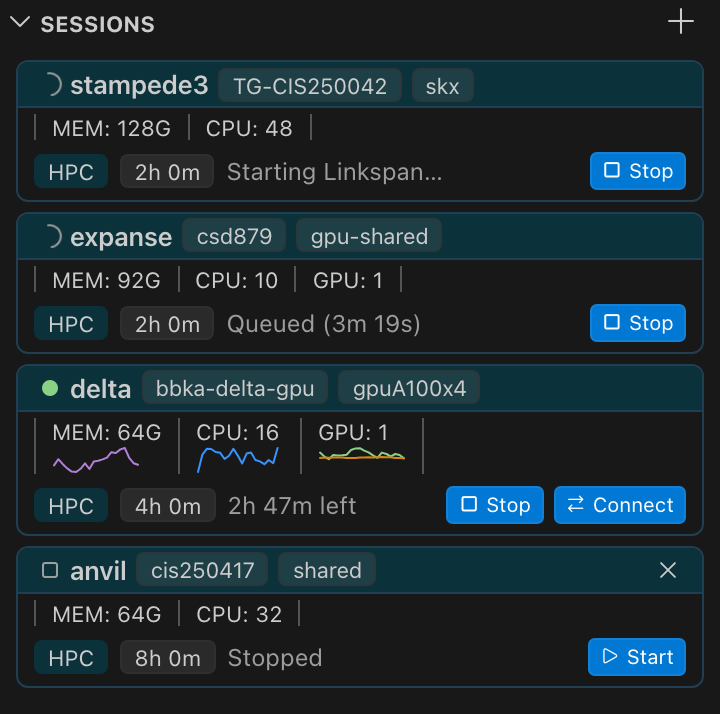
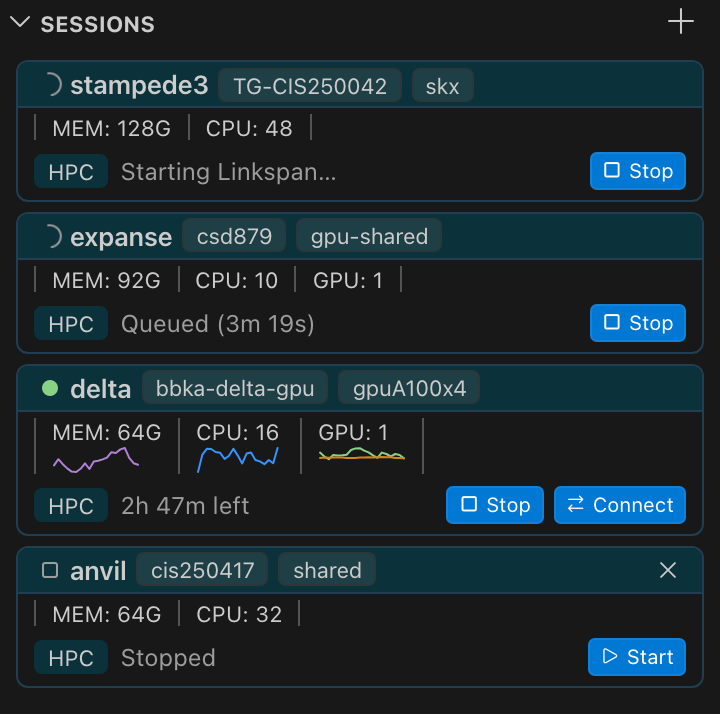
Ask for the walltime on Start (#244)

diff --git a/src/sessionProvider.ts b/src/sessionProvider.ts
@@ -27,6 +27,7 @@ export class SessionProvider extends WebviewProvider<SessionsMessage> implements
     private preparing = false; // one prepare at a time, so one draft follows another
     private readonly shared: vscode.Disposable[] = [];
     private readonly opening = new Map<string, ReturnType<typeof setTimeout>>(); // each open's own fallback timer
+    private readonly starting = new Set<string>();
     private readonly monitor: SessionMonitor;
     private readonly slurm: SlurmBackend;
     private readonly ec2: Ec2Backend;
@@ -95,7 +96,11 @@ export class SessionProvider extends WebviewProvider<SessionsMessage> implements
         dismissAlert: this.dismiss(() => { this.alert = null; }),
         addSession: m => this.createSession(m),
         refreshSlurmDiscovery: ({ alias }) => this.fetchSlurmDiscovery(alias, true),
-        prepareLaunchSession: ({ sessionId }) => void this.prepareLaunchSession(sessionId),
+        prepareLaunchSession: ({ sessionId }) => {
+            this.starting.add(sessionId);
+            void this.pushState();
+            void this.prepareLaunchSession(sessionId).finally(() => { this.starting.delete(sessionId); void this.pushState(); });
+        },
         launchSession: () => this.launchDraft(),
         stopSessionExecution: ({ sessionId }) => void this.stopSessionExecution(sessionId),
         stopRemoteSession: () => void vscode.commands.executeCommand('csbridge.stopRemoteSession'), // posted only by a remote window's card
@@ -212,7 +217,7 @@ export class SessionProvider extends WebviewProvider<SessionsMessage> implements
                     .map((s) => {
                         const live = windowState(s);
                         if (live.windowAlive) { clearTimeout(this.opening.get(s.id)); this.opening.delete(s.id); }
-                        return { ...s, status: statusOf(s), ...live, opening: this.opening.has(s.id), samples: readRecentSamples(s.id) };
+                        return { ...s, status: statusOf(s), ...live, opening: this.opening.has(s.id), starting: this.starting.has(s.id), samples: readRecentSamples(s.id) };
                     })
                     .sort((a, b) => b.id.localeCompare(a.id)), // newest first
                 draftAlias: this.draftAlias,
@@ -320,7 +325,8 @@ export class SessionProvider extends WebviewProvider<SessionsMessage> implements
 
     private async prepareLaunchSession(sessionId: string) {
         const session = this.requireSession(sessionId, 'prepare launch');
-        if (!session || this.preparing || live.busy.has(session.id) || live.connecting.has(session.id)) { return; } // one prepare at a time; a Start during a connect is a no-op
+        const wallMinutes = session && !isEc2(session) ? await pickWalltime(session.resources.wallMinutes) : 0;
+        if (!session || wallMinutes === undefined || this.preparing || live.busy.has(session.id) || live.connecting.has(session.id)) { return; } // one prepare at a time; a Start during a connect is a no-op
         this.preparing = true;
         live.busy.add(session.id);
         try {
@@ -335,7 +341,7 @@ export class SessionProvider extends WebviewProvider<SessionsMessage> implements
         live.busy.add(session.id);
         try {
             if (session.connectionInfo) { await this.monitor.endSession(session); } // the previous run's teardown, before a transport switch hides it
-            patch(session, { transport: configuredTransport() });
+            patch(session, { transport: configuredTransport(), resources: { ...session.resources, wallMinutes } });
             const draft = await prepareLaunch(session, this.transports.transportFor(session));
             this.draft = { sessionId, ...draft };
         }
@@ -354,4 +360,16 @@ export class SessionProvider extends WebviewProvider<SessionsMessage> implements
         const session = draft && getSession(draft.sessionId);
         return draft && session ? { sessionId: session.id, alias: session.alias, script: draft.script } : null;
     }
+}
+
+function pickWalltime(previous: number): Promise<number | undefined> {
+    const pick = vscode.window.createQuickPick<vscode.QuickPickItem & { minutes: number }>();
+    pick.title = 'Walltime';
+    pick.items = [30, 60, 120, 240, 480, 720, 1440].map(m => ({ label: m < 60 ? `${m} min` : `${m / 60} h`, minutes: m }));
+    pick.activeItems = pick.items.filter(i => i.minutes === previous);
+    return new Promise((resolve) => {
+        pick.onDidAccept(() => { resolve(pick.selectedItems[0]?.minutes); pick.dispose(); });
+        pick.onDidHide(() => { resolve(undefined); pick.dispose(); });
+        pick.show();
+    });
 }

diff --git a/src/ui/logic/session.test.ts b/src/ui/logic/session.test.ts
@@ -70,15 +70,17 @@ test('connected session: Current when this window, else Switch/Connect by window
     assert.deepEqual([connectingBtn?.kind, connectingBtn?.label], ['opening', 'Connecting…']);
 });
 
-test('cardModel: an HPC job and an EC2 instance differ only in chips, details, walltime and the running text', () => {
+test('cardModel: an HPC job and an EC2 instance differ only in chips, details and the running text', () => {
     const base = { alias: 'h', account: 'acct', partition: 'gpu', jobId: '42', errorMessage: '', submittedAt: 1_000, startedAt: 1_000, resources: { cores: 2, memoryMb: 4096, wallMinutes: 60 } };
     const hpc = cardModel(sess('connected', base), 601_000);
-    assert.deepEqual([hpc.kind, hpc.theme, hpc.chips, hpc.walltime, hpc.details, hpc.status.text], ['HPC', 'info', ['acct', 'gpu'], '1h 0m', undefined, '50m 0s left']);
+    assert.deepEqual([hpc.kind, hpc.theme, hpc.chips, hpc.details, hpc.status.text], ['HPC', 'info', ['acct', 'gpu'], undefined, '50m 0s left']);
     const ec2 = { region: 'us-east-1', type: 't3.micro', image: '', user: 'ubuntu', ip: '1.2.3.4' };
     const aws = cardModel(sess('connected', { ...base, ec2 }), 601_000);
-    assert.deepEqual([aws.kind, aws.theme, aws.chips, aws.walltime, aws.details, aws.status.text], ['AWS', 'warning', ['t3.micro', 'Ubuntu 24.04 LTS'], undefined, ['us-east-1', '42', '1.2.3.4'], 'Running']);
+    assert.deepEqual([aws.kind, aws.theme, aws.chips, aws.details, aws.status.text], ['AWS', 'warning', ['t3.micro', 'Ubuntu 24.04 LTS'], ['us-east-1', '42', '1.2.3.4'], 'Running']);
     assert.equal(cardModel(sess('preparing', base), 0).status.text, 'Starting Linkspan…');
     assert.equal(cardModel(sess('preparing', { ...base, ec2 }), 0).status.text, 'Booting…');
+    const starting = cardModel(sess('stopped', { ...base, starting: true }), 0);
+    assert.deepEqual([starting.actions[0]?.label, starting.canDelete], ['Starting…', false]);
 });
 
 test('cardModel: status text carries the error where there is one, with a hover title', () => {

diff --git a/src/ui/components/HostForm.tsx b/src/ui/components/HostForm.tsx
@@ -11,8 +11,6 @@ interface Props {
     validating: boolean;
 }
 
-const WALL_MINUTES: NonEmpty<number> = [30, 60, 120, 240, 480, 720, 1440];
-const wallLabel = (m: number) => (m < 60 ? `${m} min` : m === 60 ? '1 hour' : `${m / 60} hours`);
 const partitionLabel = (p: SlurmPartitionInfo) => `${p.name} (${p.cpuCount} CPUs${p.gres[0] ? `, ${p.gres[0].count} GPUs` : ''})`;
 
 // Options are keyed by `id` because the state the form derives from is re-sent on every render.
@@ -36,7 +34,6 @@ function HostFormFields({ alias, info, validating }: { alias: string; info: Slur
     const [memPick, setMem] = useState<number>();
     const [gpuCountPick, setGpuCount] = useState<number>();
     const [gpuTypePick, setGpuType] = useState<string>();
-    const [wall, setWall] = useState(WALL_MINUTES[0]);
 
     const partition = resolvePick(partName, info.partitions, p => p.name);
     const tab = tabOf(partition);
@@ -47,7 +44,7 @@ function HostFormFields({ alias, info, validating }: { alias: string; info: Slur
 
     const submit = () => post({
         command: 'addSession', alias, partition: partition.name, account, rootFolder: info.homeDir,
-        resources: { cores: cpu, memoryMb: memGb * 1024, wallMinutes: wall, ...gpu && { gpuType: gpuTypeOf(gpu.type), gpuCount } },
+        resources: { cores: cpu, memoryMb: memGb * 1024, wallMinutes: 0, ...gpu && { gpuType: gpuTypeOf(gpu.type), gpuCount } },
     });
 
     return (
@@ -69,7 +66,6 @@ function HostFormFields({ alias, info, validating }: { alias: string; info: Slur
                     <Choice label="GPU Type" value={gpu.type} options={gpu.types} onChange={setGpuType} />
                 </>
             )}
-            <Choice label="Walltime" value={wall} options={WALL_MINUTES} onChange={setWall} show={wallLabel} />
             <Button onClick={submit} disabled={validating}>
                 {validating ? <Row gap={4}><Spinner size={12} /> Validating…</Row> : 'Add'}
             </Button>

diff --git a/src/ui/logic/session.ts b/src/ui/logic/session.ts
@@ -54,7 +54,7 @@ export function dotColor(status: ViewSession['status']): string {
 
 export function sessionActions(session: ViewSession): SessionAction[] {
     const s = session.status;
-    if (isDeletable(s)) { return [{ kind: 'start', label: 'Start', icon: 'play' }]; }
+    if (isDeletable(s)) { return [session.starting ? { kind: 'opening', label: 'Starting…', icon: 'loading' } : { kind: 'start', label: 'Start', icon: 'play' }]; }
 
     const actions: SessionAction[] = [];
     if (isStoppable(s)) { actions.push(STOP); }
@@ -120,7 +120,6 @@ interface CardModel {
     icon: { name: string; spin?: boolean };
     color: string;
     chips: string[];
-    walltime?: string;
     details?: string[];
     status: { text: string; title?: string };
     actions: SessionAction[];
@@ -150,7 +149,7 @@ function card<S extends ViewSession>(s: S, provider: Provider<S>, now: number, r
     const actions = sessionActions(s);
     return {
         kind: provider.kind, theme: provider.theme, icon: STATUS_ICON[s.status], color: dotColor(s.status), chips: provider.chips(s),
-        ...provider.kind === 'HPC' && { walltime: fmtTime(wallMs(s)) }, details: provider.details?.(s), status: statusText(s, now, provider),
-        actions: remote ? actions.filter(a => a.kind === 'stop') : actions, canDelete: !remote && isDeletable(s.status),
+        details: provider.details?.(s), status: statusText(s, now, provider),
+        actions: remote ? actions.filter(a => a.kind === 'stop') : actions, canDelete: !remote && !s.starting && isDeletable(s.status),
     };
 }

diff --git a/scripts/vscodeMock.js b/scripts/vscodeMock.js
@@ -26,6 +26,7 @@ mock.module('vscode', () => ({
     window: {
         createOutputChannel: () => ({ info: noop, warn: noop, error: noop, trace: noop, dispose: noop }),
         showErrorMessage: async () => undefined, showWarningMessage: async () => undefined, showInformationMessage: async () => undefined,
+        createQuickPick: () => { const pick = { activeItems: [], onDidHide: noop, dispose: noop, onDidAccept: f => { pick.show = () => { pick.selectedItems = pick.activeItems; f(); }; } }; return pick; },
         createWebviewPanel: () => {
             const received = new EventEmitter(), disposed = new EventEmitter();
             const panel = { webview: { html: '', cspSource: 'vscode-webview:', asWebviewUri: u => u, posted: [], postMessage: async m => { panel.webview.posted.push(m); return true; }, onDidReceiveMessage: received.event }, onDidDispose: disposed.event, dispose: () => disposed.fire(), receive: m => received.fire(m) };

diff --git a/src/ui/components/SessionCard.tsx b/src/ui/components/SessionCard.tsx
@@ -91,8 +91,7 @@ export function SessionCard({ session, remote }: Props) {
                 {m.details ? <Divided items={m.details.map(t => <Text key={t} size={11}>{t}</Text>)} /> : <ResourceStats session={session} />}
                 <Row gap={6}>
                     <Chip label={m.kind} background={tint} />
-                    {m.walltime ? <Chip label={m.walltime} /> : null}
-                    <Row style={statusStyle}><Text title={m.status.title}>{m.status.text}</Text></Row>
+                    <Row style={statusStyle}><Text ellipsis title={m.status.title ?? m.status.text}>{m.status.text}</Text></Row>
                     {m.actions.length ? (
                         <Row gap={6} style={{ marginLeft: 'auto', flexShrink: 0, zoom: 0.85 }}>
                             {m.actions.map(a => a.kind === 'opening'

diff --git a/src/modules/slurmParse.test.ts b/src/modules/slurmParse.test.ts
@@ -68,6 +68,7 @@ test('buildSlurmScript emits the resource #SBATCH directives and the Linkspan in
     assert.match(script, /^#SBATCH --cpus-per-task=4$/m);
     assert.match(script, /^#SBATCH --mem=8192M$/m);
     assert.match(script, /^#SBATCH --time=1-01:00:00$/m);
+    assert.doesNotMatch(buildSlurmScript({ ...session, resources: { ...session.resources, wallMinutes: 0 } }, devTunnelLaunch({ id: 'tid', cluster: 'use' }, 'tok'), 25000), /--time/, 'no walltime, no --time');
     assert.match(script, /^#SBATCH --partition=gpu$/m);
     assert.match(script, /^#SBATCH --account=acct1$/m);
     assert.match(script, /^#SBATCH --gres=gpu:a100:2$/m);

diff --git a/src/modules/slurmParse.ts b/src/modules/slurmParse.ts
@@ -50,7 +50,7 @@ export function buildSlurmScript(session: SlurmSession, launch: LinkspanLaunch, 
         `#SBATCH --ntasks=1`,
         `#SBATCH --cpus-per-task=${cores}`,
         `#SBATCH --mem=${memoryMb}M`,
-        `#SBATCH --time=${minutesToWalltime(wallMinutes)}`,
+        ...(wallMinutes ? [`#SBATCH --time=${minutesToWalltime(wallMinutes)}`] : []),
         `#SBATCH --partition=${session.partition}`,
         ...(session.account ? [`#SBATCH --account=${session.account}`] : []),
         ...(gpuCount ? [`#SBATCH --gres=gpu:${gpuType && gpuType !== 'gpu' ? `${gpuType}:` : ''}${gpuCount}`] : []),

diff --git a/src/lifecycle.test.ts b/src/lifecycle.test.ts
@@ -194,6 +194,7 @@ test('a relaunch preview outlives a heartbeat, and dropping it releases the atta
     assert.deepEqual(released, [s.id], 'the old run is torn down before the next is prepared');
     assert.equal(s.connectionInfo, undefined);
     assert.equal(state()?.preview?.sessionId, s.id, 'the preview is up');
+    assert.match(must(state()?.preview).script, /^#SBATCH --time=00:30:00$/m, 'the last walltime is preselected');
     assert.equal(owns(s), true, 'the preview holds the claim');
 
     await files.write('windows/other.json', JSON.stringify({ at: Date.now() }));

diff --git a/src/models.ts b/src/models.ts
@@ -108,7 +108,7 @@ export enum SlurmJobStatus {
     UNKNOWN = 'unknown',
 }
 
-export type ViewSession = SlurmSession & { status: SessionStatus; samples: UsageSample[]; isCurrent?: boolean; windowAlive?: boolean; opening?: boolean };
+export type ViewSession = SlurmSession & { status: SessionStatus; samples: UsageSample[]; isCurrent?: boolean; windowAlive?: boolean; opening?: boolean; starting?: boolean };
 
 export const SAMPLE_HISTORY_LEN = 20; // rolling live-sample window, also the sparkline slot count
 export const POLLING_INTERVAL_MS = 5000;

diff --git a/docs/01-session-lifecycle.md b/docs/01-session-lifecycle.md
@@ -52,17 +52,21 @@ offers:
 | CPUs | 2 up to the partition's count |
 | Memory | 4, 8, 16, … 1024 GB, up to the partition's. The range is 4 to 128 GB when the partition reports none. 2 GB is excluded. It OOM-kills the VS Code server. |
 | GPU type and count | from the partition's GRES |
-| Walltime | 30 min, 1, 2, 4, 8, 12 or 24 h |
+
+The form has no walltime, so validation sends no `--time`.
 
 ## Start
+
+For a Slurm session, **Start** first asks for a walltime, from 30 min to 24 h. The last one is preselected. Escape
+cancels. The card shows busy until the preview opens.
 
 1. **Claim and clean up.** **Start** (`sessionProvider.ts`):
    - ends any monitoring loop with its teardown, or waits for a teardown already in flight;
    - drops an unsubmitted preview;
    - claims the session. It stops if another window owns it.
 
-   If the previous run left connection info, that run's teardown runs now. The configured transport is then written
-   to the record. This way a run keeps the transport it started with.
+   If the previous run left connection info, that run's teardown runs now. The configured transport and the walltime
+   are then written to the record. This way a run keeps the transport it started with.
 
    Start does nothing while:
    - another Start in this window is preparing;
@@ -131,7 +135,7 @@ offers:
 
 `buildSlurmScript` writes:
 
-- `#SBATCH` lines for job name, nodes, tasks, CPUs, memory, time and partition, plus account and `--gres` when set;
+- `#SBATCH` lines for job name, nodes, tasks, CPUs, memory and partition, plus time, account and `--gres` when set;
 - output and error logs at `~/.cybershuttle/logs/linkspan-session-$SLURM_JOB_ID.{out,err}`;
 - `unset XDG_RUNTIME_DIR TMPDIR`. Compute nodes have no logind. Without it, the inherited `/run/user/$UID` does not
   exist there. Unsetting both makes the VS Code server use node-local `/tmp`;

diff --git a/README.md b/README.md
@@ -57,8 +57,8 @@ alias. Stop a session's job before you rename or remove its host.
 
 ### Request a compute node from a form
 
-Choose the partition, Slurm account, CPUs, memory and GPUs the cluster offers. Choose a walltime of up to 24 hours.
-**Add** checks the request with Slurm before saving it. **Start** shows the job script CS Bridge wrote. **Submit Job**
+Choose the partition, Slurm account, CPUs, memory and GPUs the cluster offers. **Add** checks the request with Slurm
+before saving it. **Start** asks for a walltime of up to 24 h, then shows the job script CS Bridge wrote. **Submit Job**
 submits it. There is no batch script to maintain.
 
 <img src="https://raw.githubusercontent.com/cyber-shuttle/CS-Bridge/HEAD/docs/media/02-new-session.png" alt="New session form" width="360">
@@ -210,7 +210,7 @@ CS Bridge currently fails to activate when `~/.ssh` does not exist. Create it fi
 3. From the **+** menu, choose **Create New SSH Session** and pick an SSH host. To add a host first, choose **Add SSH
    Host** and paste its `ssh` command.
 4. Fill in the resource form and click **Add**.
-5. On the new session, click **Start**, review the job script, and click **Submit Job**.
+5. On the new session, click **Start**, choose a walltime, review the job script, and click **Submit Job**.
 6. Once the job runs, click **Connect**. A new VS Code window opens on the compute node.
 
 ## FAQ
